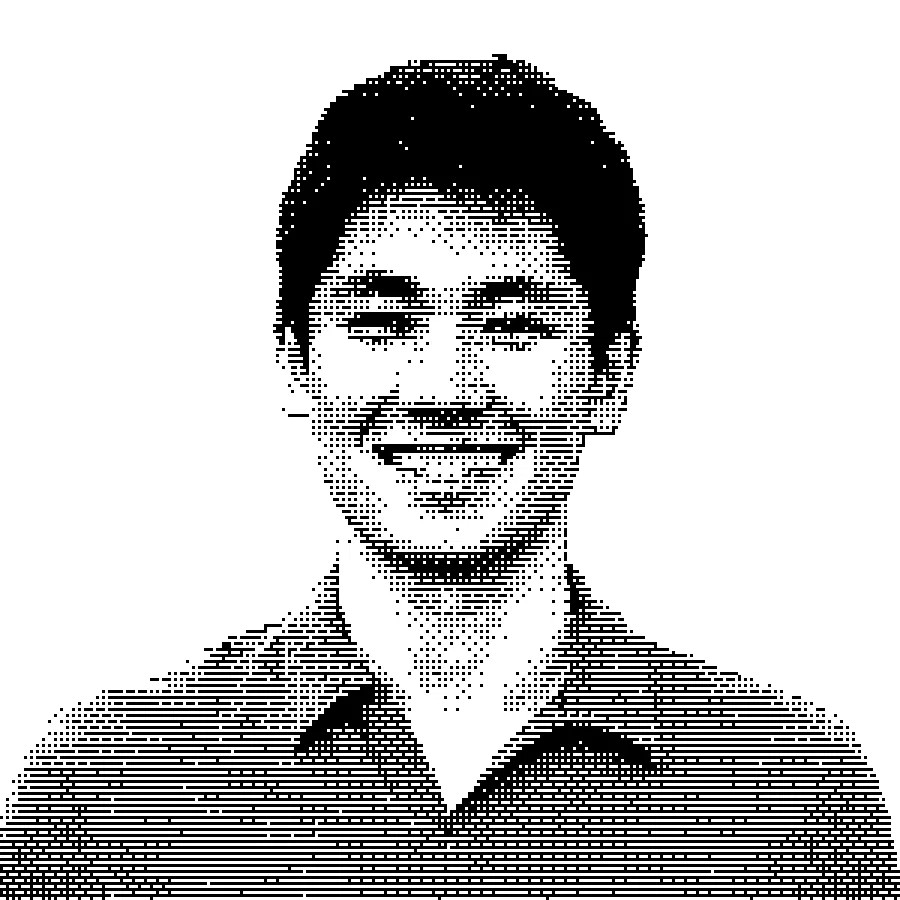
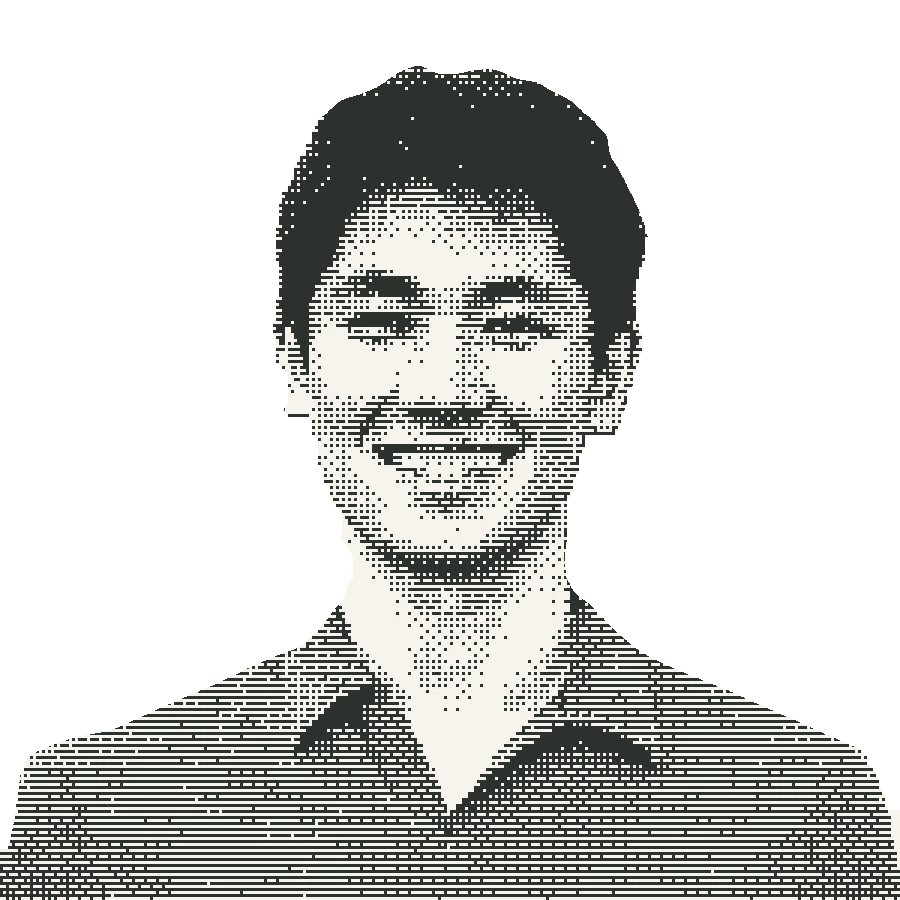
portrait in page tones

Changed region(s): [[0.0, 0.0622, 1.0, 1.0]]

diff --git a/work/index.html b/work/index.html
@@ -27,7 +27,7 @@ gtag('config', 'G-7ZV7LSVQRZ');
 <div class="stage">
   <div class="horizon" aria-hidden="true"></div>
   <div class="cluster">
-    <div class="shelf"><a class="name" href="/about/">Cyrus Ghane</a><img class="portrait" src="/assets/headshot.png?v=3" alt="Cyrus Ghane"></div>
+    <div class="shelf"><a class="name" href="/about/">Cyrus Ghane</a><img class="portrait" src="/assets/headshot.png?v=4" alt="Cyrus Ghane"></div>
     <nav>
       <a href="/about/">about</a>
       <a href="/work/" aria-current="page">work</a>

diff --git a/writing/index.html b/writing/index.html
@@ -27,7 +27,7 @@ gtag('config', 'G-7ZV7LSVQRZ');
 <div class="stage">
   <div class="horizon" aria-hidden="true"></div>
   <div class="cluster">
-    <div class="shelf"><a class="name" href="/about/">Cyrus Ghane</a><img class="portrait" src="/assets/headshot.png?v=3" alt="Cyrus Ghane"></div>
+    <div class="shelf"><a class="name" href="/about/">Cyrus Ghane</a><img class="portrait" src="/assets/headshot.png?v=4" alt="Cyrus Ghane"></div>
     <nav>
       <a href="/about/">about</a>
       <a href="/work/">work</a>

diff --git a/about/index.html b/about/index.html
@@ -33,7 +33,7 @@ gtag('config', 'G-7ZV7LSVQRZ');
 
 <div class="wrap">
   <main class="col">
-    <div class="id"><a class="name" href="/about/">Cyrus Ghane</a><img class="portrait" src="/assets/headshot.png?v=3" alt="Cyrus Ghane"></div>
+    <div class="id"><a class="name" href="/about/">Cyrus Ghane</a><img class="portrait" src="/assets/headshot.png?v=4" alt="Cyrus Ghane"></div>
     <div class="rule" aria-hidden="true"></div>
     <nav>
       <a href="/about/" aria-current="page">about</a>
